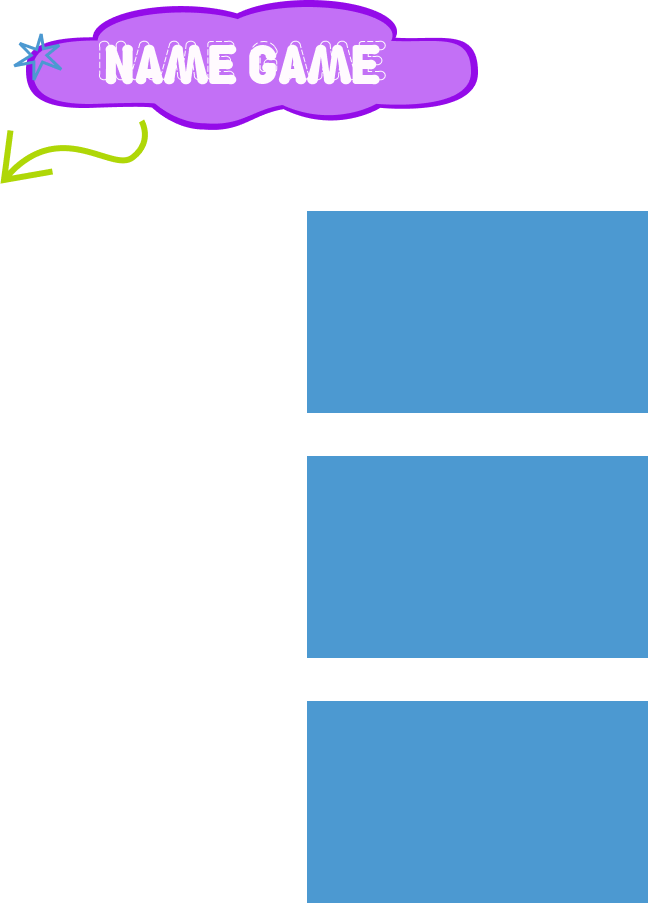
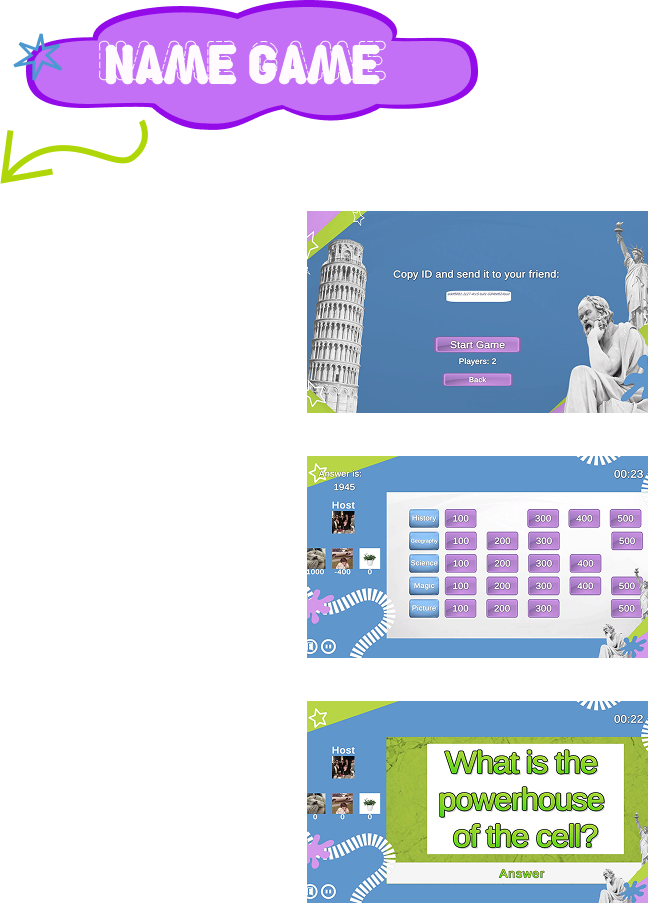
Добавил новые изображения и обновил стили: - Добавлены 3 новых изображения для игры - Обновлён style.css (адаптивность) - Мелкие правки в index.html

Changed region(s): [[0.463, 0.2171, 1.0, 0.4651], [0.463, 0.4961, 1.0, 0.7442], [0.463, 0.7752, 1.0, 1.0]]

diff --git a/index.html b/index.html
@@ -7,53 +7,6 @@
     <link rel="stylesheet" href="css/style.css">
 </head>
 <body>
-
-
-    <script>
-    document.addEventListener('DOMContentLoaded', function() {
-        const stars = document.querySelectorAll('.star');
-        const ratingText = document.querySelector('.rating-text');
-        let currentRating = 0;
-        stars.forEach(star => {
-          star.addEventListener('click', function() {
-            const value = parseInt(this.getAttribute('data-value'));
-            currentRating = value;
-            stars.forEach(s => {
-              s.classList.remove('active');
-              if (parseInt(s.getAttribute('data-value')) <= value) {
-                s.classList.add('active');
-              }
-            });
-            const ratingMessages = [
-              "Rate Us!",
-              "Terrible",
-              "Bad",
-              "Average",
-              "Good",
-              "Great"
-            ];
-            ratingText.textContent = ratingMessages[value];
-          });
-          
-          star.addEventListener('mouseover', function() {
-            const value = parseInt(this.getAttribute('data-value'));
-            
-            stars.forEach(s => {
-              s.classList.remove('hover');
-              if (parseInt(s.getAttribute('data-value')) <= value) {
-                s.classList.add('hover');
-              }
-            });
-          });
-          
-          star.addEventListener('mouseout', function() {
-            stars.forEach(s => s.classList.remove('hover'));
-          });
-        });
-      });
-    </script>
-
-
     <div class="fixed-background">
         <img src="image/photo.jpg" class="background-image" alt="background">
     </div>
@@ -71,75 +24,101 @@
                     <img src="image/download.png" alt="Скачать игру">
                 </a>
             </div>
+            <img src="image/time to know.png" alt="название игры" class="name-play">
+           <div class="description">
+                <img src="image/картинки игры.png" alt="картинки игры">
+                  <p class = "text">
+                  "Time to Know" is a fun and exciting quiz for smart players. In this game, you can compete with friends by answering a variety of questions on different topics, from science to everyday life. Philosophy, chemistry, movies, history—in short, we’ve got it ALL!
+                  </p>
+           </div>
+             <img src="image/третья картинка игры.png" alt="3 photo" class="photo-3">
+           <div class="rate-us">
+             <img src="image/rate us text.png" alt="оцените нас заголовок">
+           </div>
             
-            <div class="description">
-                <img src="image/description.png" alt="название игры-описание">
-            </div>
-            
-            <div class="rate-us">
-                <img src="image/rate us text.png" alt="оцените нас заголовок">
-            </div>
             <div class="rating">
                 <span class="star" data-value="1">★</span>
                 <span class="star" data-value="2">★</span>
                 <span class="star" data-value="3">★</span>
                 <span class="star" data-value="4">★</span>
                 <span class="star" data-value="5">★</span>
-
             </div>
-            <p class="rating-text">Оцените нас!</p>
+            <p class="rating-text">Ratu us!</p>
             
-
-              </div>
-              <p class="rating-text">Rate us!</p>
-
             <div class="comments-section">
                 <h3 class="comments-title">Comments</h3>
                 
                 <div class="comment-form">
-
-                    <input type="text" class="comment-author" placeholder="Ваше имя (необязательно)">
-                    <textarea class="comment-input" placeholder="Ваш комментарий..." required></textarea>
-                    <button class="submit-btn">Отправить</button>
-
-                  <textarea class="comment-input" placeholder="leave your comment..."></textarea>
-                  <button class="submit-btn">send</button>
-
+                    <input type="text" class="comment-author" placeholder="Your name (optional)">
+                    <textarea class="comment-input" placeholder="Вyour comment.." required></textarea>
+                    <button class="submit-btn">send</button>
                 </div>
                 
                 <div class="comments-list">
-
                     <div class="loading">Загрузка комментариев...</div>
-                </div>
-                
-                <div class="team-info">
-                    <ul>
-                        <li><a href="https://github.com/yournick" target="_blank">@yournick</a> – velix</li>
-                        <li><a href="https://github.com/teammate1" target="_blank">@teammate1</a> – что сделал(а)</li>
-                        <li><a href="https://github.com/teammate2" target="_blank">@teammate2</a> – что сделал(а)</li>
-                    </ul>
+                    <!-- Пример комментария -->
+                    <div class="comment">
+                        <div class="comment-author">Игрок</div>
+                        <div class="comment-text">Отличная игра! Очень интересные вопросы.</div>
+                        <div class="comment-date">30.04.2025</div>
+                    </div>
                 </div>
             </div>
-
-                  <!-- Пример комментария -->
-                  <div class="comment">
-                    <div class="comment-author">Игрок</div>
-                    <div class="comment-text">Отличная игра! Очень интересные вопросы.</div>
-                    <div class="comment-date">30.04.2025</div>
-                  </div>
-                </div>
-                <div>
-                     <img src="image/название игры.png" alt="кредит" class="credits">
-                      <ul class="credits-name">
-                        <li><a href="https://github.com/velix666" target="_blank">@velix666</a> </li>
-                        <li><a href="https://github.com/BobRedHead" target="_blank">@BobRedHead</a> </li>
-                        <li><a href="https://github.com/Dicainum" target="_blank">@Dicainum</a> </li>
-                      </ul>
-                  </div>
-              </div>
-
+            
+            <div class="credits">
+                <img src="image/название игры.png" alt="кредит" class="credits-image">
+                <ul class="credits-name">
+                    <li><a href="https://github.com/velix666" target="_blank">@velix666</a></li>
+                    <li><a href="https://github.com/BobRedHead" target="_blank">@BobRedHead</a></li>
+                    <li><a href="https://github.com/Dicainum" target="_blank">@Dicainum</a></li>
+                </ul>
+            </div>
         </div>
     </div>
+
+    <script>
+    document.addEventListener('DOMContentLoaded', function() {
+        const stars = document.querySelectorAll('.star');
+        const ratingText = document.querySelector('.rating-text');
+        let currentRating = 0;
+        
+        stars.forEach(star => {
+            star.addEventListener('click', function() {
+                const value = parseInt(this.getAttribute('data-value'));
+                currentRating = value;
+                updateStars(value);
+                
+                const ratingMessages = [
+                    "Rate us!",
+                    "Terrible",
+                    "Bad",
+                    "Normal",
+                    "Good",
+                    "Excellent"
+                ];
+                ratingText.textContent = ratingMessages[value];
+            });
+            
+            star.addEventListener('mouseover', function() {
+                const value = parseInt(this.getAttribute('data-value'));
+                updateStars(value, true);
+            });
+            
+            star.addEventListener('mouseout', function() {
+                updateStars(currentRating);
+            });
+        });
+        
+        function updateStars(value, isHover = false) {
+            stars.forEach(s => {
+                s.classList.remove('active', 'hover');
+                if (parseInt(s.getAttribute('data-value')) <= value) {
+                    s.classList.add(isHover ? 'hover' : 'active');
+                }
+            });
+        }
+    });
+    </script>
 
     <script src="js/main.js"></script>
 </body>

diff --git a/css/style.css b/css/style.css
@@ -202,6 +202,7 @@ html, body {
     opacity: 0;
     transform: translateY(20px);
     animation: fadeIn 0.5s forwards;
+    
   }
   
   @keyframes fadeIn {
@@ -214,13 +215,15 @@ html, body {
    .credits-name {
    font-family: AT Tugan;
    line-height: 2;
+   text-align: left;
+   margin-left: -25%;
    
   }
 
     .credits {
    justify-content: center;
    width:auto;
-   margin-left: 20%;
+
   }
 
   a[target="_blank"] {
@@ -230,8 +233,57 @@ a[target="_blank"]:hover {
   color:#950BE9; /* Розовый при наведении */
 }
 
-.rating-text {
-   font-family: AT Tugan;
+
+/* Стили для блока description */
+.description {
+    position: relative; /* Для абсолютного позиционирования текста */
+    min-height: 200px; /* Минимальная высота блока */
+    margin-bottom: 30px;
+}
+
+.description .text {
+    position: absolute;
+    left: 0;
+    top: 5%; /* Можно регулировать вертикальное положение текста */
+    width: 50%; /* Ширина текстового блока */
+    padding-right: 20px;
+    box-sizing: border-box;
+    column-count: auto;
+    font-family: AT Tugan;
     letter-spacing: 0.3cap;
-    color: #DF96EF;
+    color: #6e48aa;
+    word-break: keep-all; /* Предотвращает разрыв слов */
+    hyphens: auto; /* Автоматическая расстановка переносов (если нужно) */
+    text-align: justify; /* Выравнивание по ширине */
+    
+    /* Оптимальное расстояние между словами и буквами */
+    word-spacing: normal;
+    letter-spacing: normal;
+    
+    /* Читабельные отступы и интерлиньяж */
+    line-height: 1.5; /* Оптимальный межстрочный интервал */
+    padding: 10px;
+    margin: 0;
+    
+    /* Максимальная ширина для удобочитаемости */
+    max-width: 600px; /* Можно регулиров
+}
+
+.description img:first-child {
+    margin-bottom: 15px; /* Отступ между картинками */
+}
+
+.description img {
+    display: block;
+    margin-left: 50%; /* Картинки будут справа */
+}
+.photo-3 {
+ position: relative;
+ margin-top: -24.1%;
+ margin-left: -45%;
+ min-height: 200px;
+display: block;
+}
+.name-play {
+  margin-top: 10%;
 }
